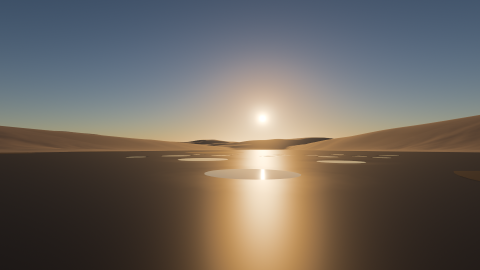
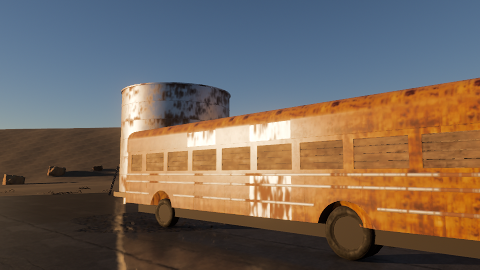
Wire the showcase's budgets, pictures, render checks and perf cases
Showcase step S7 (wave 8), its tests and pictures (the documentation
follows in its own commit).

- E3: SampleBudgets gains ShowcaseScreenshotBytes (8 MB) and
  ShowcaseMaxScreenshots (6), which CheckSampleContent reads for the
  showcase class; Samples.Content's new case: six 1.2 MB pictures pass
  in a showcase and fail a standard sample (6 files, 7.2 MB), a seventh
  or 8.1 MB in six fail a showcase too.
- Pictures (viewport.capture in the editor): Screenshots/Shot1-6.png at
  960 x 540 and High, each at its time of day (6.41 MB; 1280 x 720 took
  11.4 MB, over the allowance), Picture.png (480 x 270, the scene's
  camera at shot 2's key), Assets/Icon.png (256 x 256 of shot 2), set as
  the game's icon with project.setGameInfo ("High Desert Outpost",
  1.0.0). Sources now 72.43 MB of 80, the showcase's binaries 79.11 MB
  of 85.
- CTests: StrataRuntime.ShowcaseWindowed (+Image, +Perf): 1280 x 720
  for 22 s of game time (shot 2 starts 15 s after the game's first log
  line, three Release runs; 7 s into it), at least 14% of the pixels red
  by 30 codes (29.6% measured), GPU.TAA, .Reflections, .Shadows and
  .Aerial at work. StrataEditor.ShowcaseRender
  (StrataTests/Editor/ShowcaseRenderCommands.json, written from the
  generator's stations and markers): the six shots at their times of day
  with nothing pending and the shadow fit settled, shot 1's fourth
  cascade at 550 m at least, Measure.Yard within 0.5 EV of 14.0 and
[…]

diff --git a/StrataTests/src/Perf/SamplePerfTests.cpp b/StrataTests/src/Perf/SamplePerfTests.cpp
@@ -32,6 +32,23 @@ namespace
 	constexpr double c_TourWindowMs = 8'000.0;
 	constexpr uint32_t c_TourSeconds = 12;
 
+	// The showcase's tour (High Desert Outpost): 70 s of its 78 s, from the first frame drawn with nothing loading (the
+	// loading scene and the stations' wait come before), at 2560 x 1440 (a 3840 x 2160 window does not fit the reference
+	// display, and the runtime has no exclusive fullscreen: the spec's ruling Q7). 90 s of game time leave room for the wait.
+	constexpr double c_ShowcaseWindowMs = 70'000.0;
+	constexpr uint32_t c_ShowcaseSeconds = 90;
+
+	struct ShowcaseMetrics
+	{
+		const char* GPUMedian;
+		const char* GPUP95;
+		const char* WorkMedian; // Null: not recorded at this preset
+	};
+	constexpr ShowcaseMetrics c_ShowcaseHigh = { "PerfGPU.Samples.ShowcaseHigh1440.GPUBusyMedianMs", "PerfGPU.Samples.ShowcaseHigh1440.GPUBusyP95Ms",
+		"PerfGPU.Samples.ShowcaseHigh1440.FrameWorkMedianMs" };
+	constexpr ShowcaseMetrics c_ShowcaseUltra = { "PerfGPU.Samples.ShowcaseUltra1440.GPUBusyMedianMs", "PerfGPU.Samples.ShowcaseUltra1440.GPUBusyP95Ms",
+		nullptr };
+
 	// The value at `fraction` (0.5 the median, 0.95 the 95th percentile) of the finite values, nearest rank.
 	double Percentile(std::vector<double> values, double fraction)
 	{
@@ -47,6 +64,65 @@ namespace
 		const std::optional<size_t> column = table.FindColumn(name);
 		REQUIRE_MESSAGE(column.has_value(), "the perf log has no column ", std::string(name));
 		return *column;
+	}
+
+	// The showcase's exported game (STRATA_SHOWCASE_GAME) through its tour at a preset, started once per attempt.
+	void MeasureShowcaseTour(const char* preset, const ShowcaseMetrics& metrics)
+	{
+		const std::optional<std::string> game = Platform::GetEnvVar("STRATA_SHOWCASE_GAME");
+		REQUIRE_MESSAGE((game && !game->empty()), "STRATA_SHOWCASE_GAME names the exported showcase (CTest StrataTests.PerfGPU.Samples)");
+		const std::filesystem::path directory = Tests::CreateTemporaryDirectory(std::string("PerfShowcase") + preset);
+		std::vector<std::string> names = { metrics.GPUMedian, metrics.GPUP95 };
+		if (metrics.WorkMedian)
+			names.push_back(metrics.WorkMedian);
+		Tests::Perf::CheckBudgetsConfirmed(names, [&]
+		{
+			const std::filesystem::path perfLog = directory / "Tour.csv";
+			ProcessSpecification process;
+			process.Executable = FileSystem::FromUTF8(*game);
+			process.Arguments = { "--resolution", "2560x1440", "--seconds", std::to_string(c_ShowcaseSeconds), "--perf-log", FileSystem::ToUTF8(perfLog),
+				"--save-directory", FileSystem::ToUTF8(directory / "Saves"), "--quality", preset };
+			const Process::RunResult run = Process::Run(process, std::chrono::minutes(10));
+			INFO("Game output:\n", run.Output);
+			REQUIRE_MESSAGE(run.Started, run.Error);
+			REQUIRE_FALSE(run.TimedOut);
+			REQUIRE(run.ExitCode == 0);
+			REQUIRE(run.Output.find("Showcase: tour started") != std::string::npos);
+
+			std::string error;
+			const std::optional<Tests::PerfLogTable> table = Tests::ReadPerfLog(perfLog, error);
+			REQUIRE_MESSAGE(table, error);
+			REQUIRE_MESSAGE(!table->Rows.empty(), "the perf log has no rows");
+			REQUIRE_MESSAGE(Tests::ValidatePerfLog(*table, table->Rows.size(), error), error);
+			const size_t loadingColumn = RequireColumn(*table, "LoadingAssets");
+			const size_t workColumn = RequireColumn(*table, "WorkMs");
+			const size_t intervalColumn = RequireColumn(*table, "IntervalMs");
+			const size_t gpuColumn = RequireColumn(*table, "GPUBusyMs");
+			const auto start = std::find_if(table->Rows.begin(), table->Rows.end(),
+				[&](const std::vector<double>& row) { return row[loadingColumn] == 0.0 && row[gpuColumn] > 0.0; });
+			REQUIRE_MESSAGE(start != table->Rows.end(), "no frame of the run was drawn with nothing loading");
+
+			std::vector<double> work;
+			std::vector<double> gpu;
+			double elapsedMs = 0.0;
+			for (auto row = start; row != table->Rows.end() && elapsedMs < c_ShowcaseWindowMs; ++row)
+			{
+				work.push_back((*row)[workColumn]);
+				gpu.push_back((*row)[gpuColumn]);
+				elapsedMs += (*row)[intervalColumn];
+			}
+			REQUIRE_MESSAGE(elapsedMs >= c_ShowcaseWindowMs, "the run ended ", elapsedMs / 1000.0, " s into the tour, before its ",
+				c_ShowcaseWindowMs / 1000.0, " s");
+			const double gpuMedian = Percentile(gpu, 0.5);
+			const double gpuP95 = Percentile(gpu, 0.95);
+			const double workMedian = Percentile(work, 0.5);
+			MESSAGE("Showcase tour at ", std::string(preset), ", ", gpu.size(), " frames from frame ", start - table->Rows.begin(), ": GPU busy median ", gpuMedian,
+				" ms, 95th percentile ", gpuP95, " ms; work median ", workMedian, " ms");
+			Tests::Perf::MetricValues values { { metrics.GPUMedian, gpuMedian }, { metrics.GPUP95, gpuP95 } };
+			if (metrics.WorkMedian)
+				values.emplace(metrics.WorkMedian, workMedian);
+			return values;
+		});
 	}
 
 }
@@ -110,5 +186,17 @@ TEST_SUITE("PerfGPU.Samples")
 				workP95, " ms; GPU busy median ", gpuMedian, " ms; frame interval median ", Percentile(intervals, 0.5), " ms (the display's)");
 			return Tests::Perf::MetricValues { { c_TourWorkMedian, workMedian }, { c_TourWorkP95, workP95 }, { c_TourGPUMedian, gpuMedian } };
 		});
+	}
+
+	TEST_CASE("The showcase's tour at High: the GPU's time and the frames' work")
+	{
+		// High Desert Outpost's six shots at the default preset: the reference scene for High's budget (wave 8's target
+		// 8.3 ms at 3840 x 2160, recorded here at 2560 x 1440 until a display can show 4K windowed).
+		MeasureShowcaseTour("high", c_ShowcaseHigh);
+	}
+
+	TEST_CASE("The showcase's tour at Ultra: the GPU's time")
+	{
+		MeasureShowcaseTour("ultra", c_ShowcaseUltra);
 	}
 }

diff --git a/StrataTests/src/Samples/SampleContentTests.cpp b/StrataTests/src/Samples/SampleContentTests.cpp
@@ -152,6 +152,30 @@ TEST_SUITE("Samples.Content")
 			"the showcase samples' binary files take 85.0 MB (at most 85.0 MB)"));
 	}
 
+	TEST_CASE("A showcase sample may hold six screenshots in 8 MB and others three in 3 MB")
+	{
+		const std::filesystem::path root = Tests::CreateTemporaryDirectory("SampleShowcaseScreenshots");
+		// Six pictures of 1.2 MB, one per shot of a showcase's tour: within a showcase's allowance, over a standard sample's.
+		const std::filesystem::path sample = MakeValidSample(root / "Showcase");
+		for (int32_t shot = 1; shot <= 6; shot++)
+			WriteSizedFile(sample / "Screenshots" / ("Shot" + std::to_string(shot) + ".png"), 1'200'000);
+		const std::vector<std::string> showcase = Tests::CheckSampleContent(sample, c_Notices, {}, Tests::SampleBudgetClass::Showcase);
+		CHECK_FALSE(HasError(showcase, "Screenshots/"));
+		const std::vector<std::string> standard = Tests::CheckSampleContent(sample, c_Notices);
+		CHECK(HasError(standard, "Screenshots/ holds 6 files (at most 3)"));
+		CHECK(HasError(standard, "Screenshots/ takes 7.2 MB (at most 3.0 MB)"));
+
+		// A seventh picture, or 8.1 MB in six, is over a showcase's allowance too.
+		WriteSizedFile(sample / "Screenshots" / "Shot7.png", 100'000);
+		CHECK(HasError(Tests::CheckSampleContent(sample, c_Notices, {}, Tests::SampleBudgetClass::Showcase), "Screenshots/ holds 7 files (at most 6)"));
+		std::error_code removed;
+		std::filesystem::remove(sample / "Screenshots" / "Shot7.png", removed);
+		REQUIRE_FALSE(removed);
+		WriteSizedFile(sample / "Screenshots" / "Shot6.png", 2'100'000);
+		CHECK(HasError(Tests::CheckSampleContent(sample, c_Notices, {}, Tests::SampleBudgetClass::Showcase),
+			"Screenshots/ takes 8.1 MB (at most 8.0 MB)"));
+	}
+
 	TEST_CASE("A sample that follows every rule passes")
 	{
 		const std::filesystem::path sample = MakeValidSample(Tests::CreateTemporaryDirectory("SampleContentValid") / "Crafted");

diff --git a/StrataTests/src/Samples/SampleContent.cpp b/StrataTests/src/Samples/SampleContent.cpp
@@ -350,10 +350,13 @@ namespace Strata::Tests
 			errors.push_back(fmt::format("the source assets take {} (at most {})", FormatMB(sourceBytes), FormatMB(sourceBudget)));
 		if (documentBytes > budgets.DocumentBytes)
 			errors.push_back(fmt::format("the documents take {} (at most {})", FormatMB(documentBytes), FormatMB(budgets.DocumentBytes)));
-		if (screenshots > budgets.MaxScreenshots)
-			errors.push_back(fmt::format("Screenshots/ holds {} files (at most {})", screenshots, budgets.MaxScreenshots));
-		if (screenshotBytes > budgets.ScreenshotBytes)
-			errors.push_back(fmt::format("Screenshots/ takes {} (at most {})", FormatMB(screenshotBytes), FormatMB(budgets.ScreenshotBytes)));
+		const bool showcase = budgetClass == SampleBudgetClass::Showcase;
+		const uint32_t maxScreenshots = showcase ? budgets.ShowcaseMaxScreenshots : budgets.MaxScreenshots;
+		const uint64_t screenshotBudget = showcase ? budgets.ShowcaseScreenshotBytes : budgets.ScreenshotBytes;
+		if (screenshots > maxScreenshots)
+			errors.push_back(fmt::format("Screenshots/ holds {} files (at most {})", screenshots, maxScreenshots));
+		if (screenshotBytes > screenshotBudget)
+			errors.push_back(fmt::format("Screenshots/ takes {} (at most {})", FormatMB(screenshotBytes), FormatMB(screenshotBudget)));
 		return errors;
 	}
 

diff --git a/StrataTests/src/Samples/SampleContent.h b/StrataTests/src/Samples/SampleContent.h
@@ -33,6 +33,8 @@ namespace Strata::Tests
 		uint64_t DocumentBytes = 20'000'000;     // Text documents of one sample (scenes, cells, prefabs, materials, .meta...)
 		uint64_t ScreenshotBytes = 3'000'000;    // Screenshots/, together
 		uint32_t MaxScreenshots = 3;
+		uint64_t ShowcaseScreenshotBytes = 8'000'000; // The same, of a showcase sample: one picture per shot of its tour
+		uint32_t ShowcaseMaxScreenshots = 6;
 		uint64_t TotalBinaryBytes = 55'000'000;  // Binary files of all standard samples (source assets, pictures, screenshots)
 		uint64_t ShowcaseTotalBinaryBytes = 85'000'000; // Binary files of the showcase samples, counted apart
 		uint64_t TotalDocumentBytes = 50'000'000; // Text documents of all samples

diff --git a/Samples/Showcase/CREDITS.md b/Samples/Showcase/CREDITS.md
@@ -6,6 +6,7 @@ Every file the importers read in this sample, where it comes from and what was c
 
 | Files | Source | Author | License | Attribution | Changes |
 | --- | --- | --- | --- | --- | --- |
+| `Assets/Icon.png` | A render of the sample: a 256 x 256 `viewport.capture` of shot 2, the game's icon (`project.setGameInfo`) | Strata | Strata | | none: the capture as the editor writes it |
 | `Assets/Generated/Props/` | `Tools/GenerateShowcaseProps.py` (props) | Strata | Strata | | none: the generator's output as it writes it |
 | `Assets/Generated/Terrain/` | `Tools/GenerateShowcaseTerrain.py` (terrain) | Strata | Strata | | none: the generator's output as it writes it |
 | `Assets/Lighting/Outpost/` | Baked in the editor from `Scenes/Outpost.stscene` (`lighting.bakeProbes`, `Tools/GenerateShowcaseTerrain.py bake`): six probes, the yard and the hut at dawn, golden hour and dusk | Strata | Strata | | none: the bake's output as it writes it |
